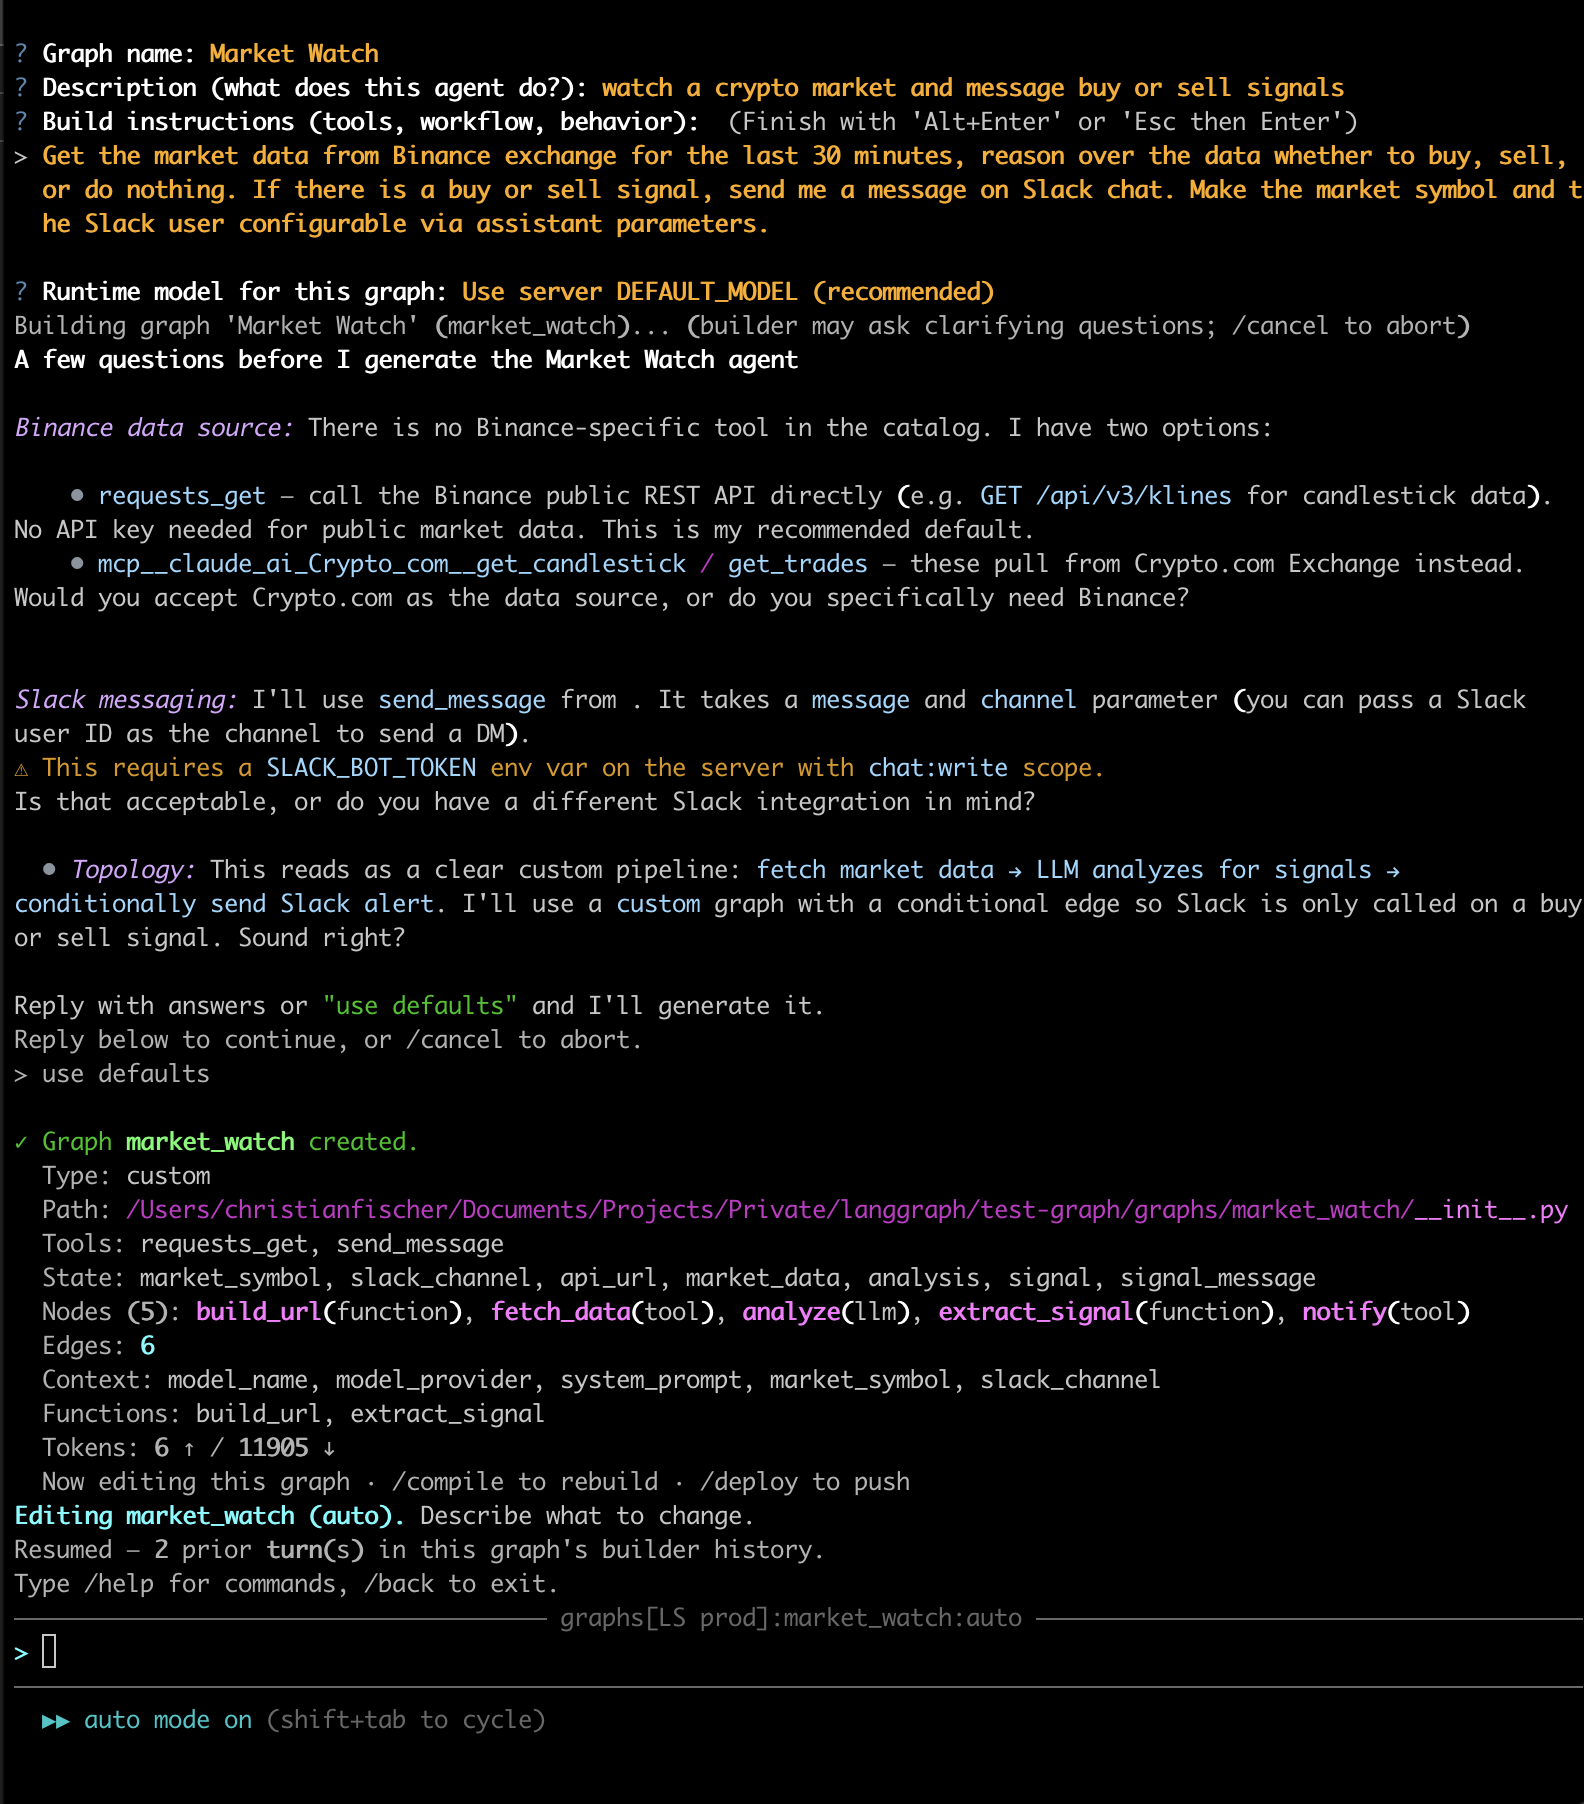
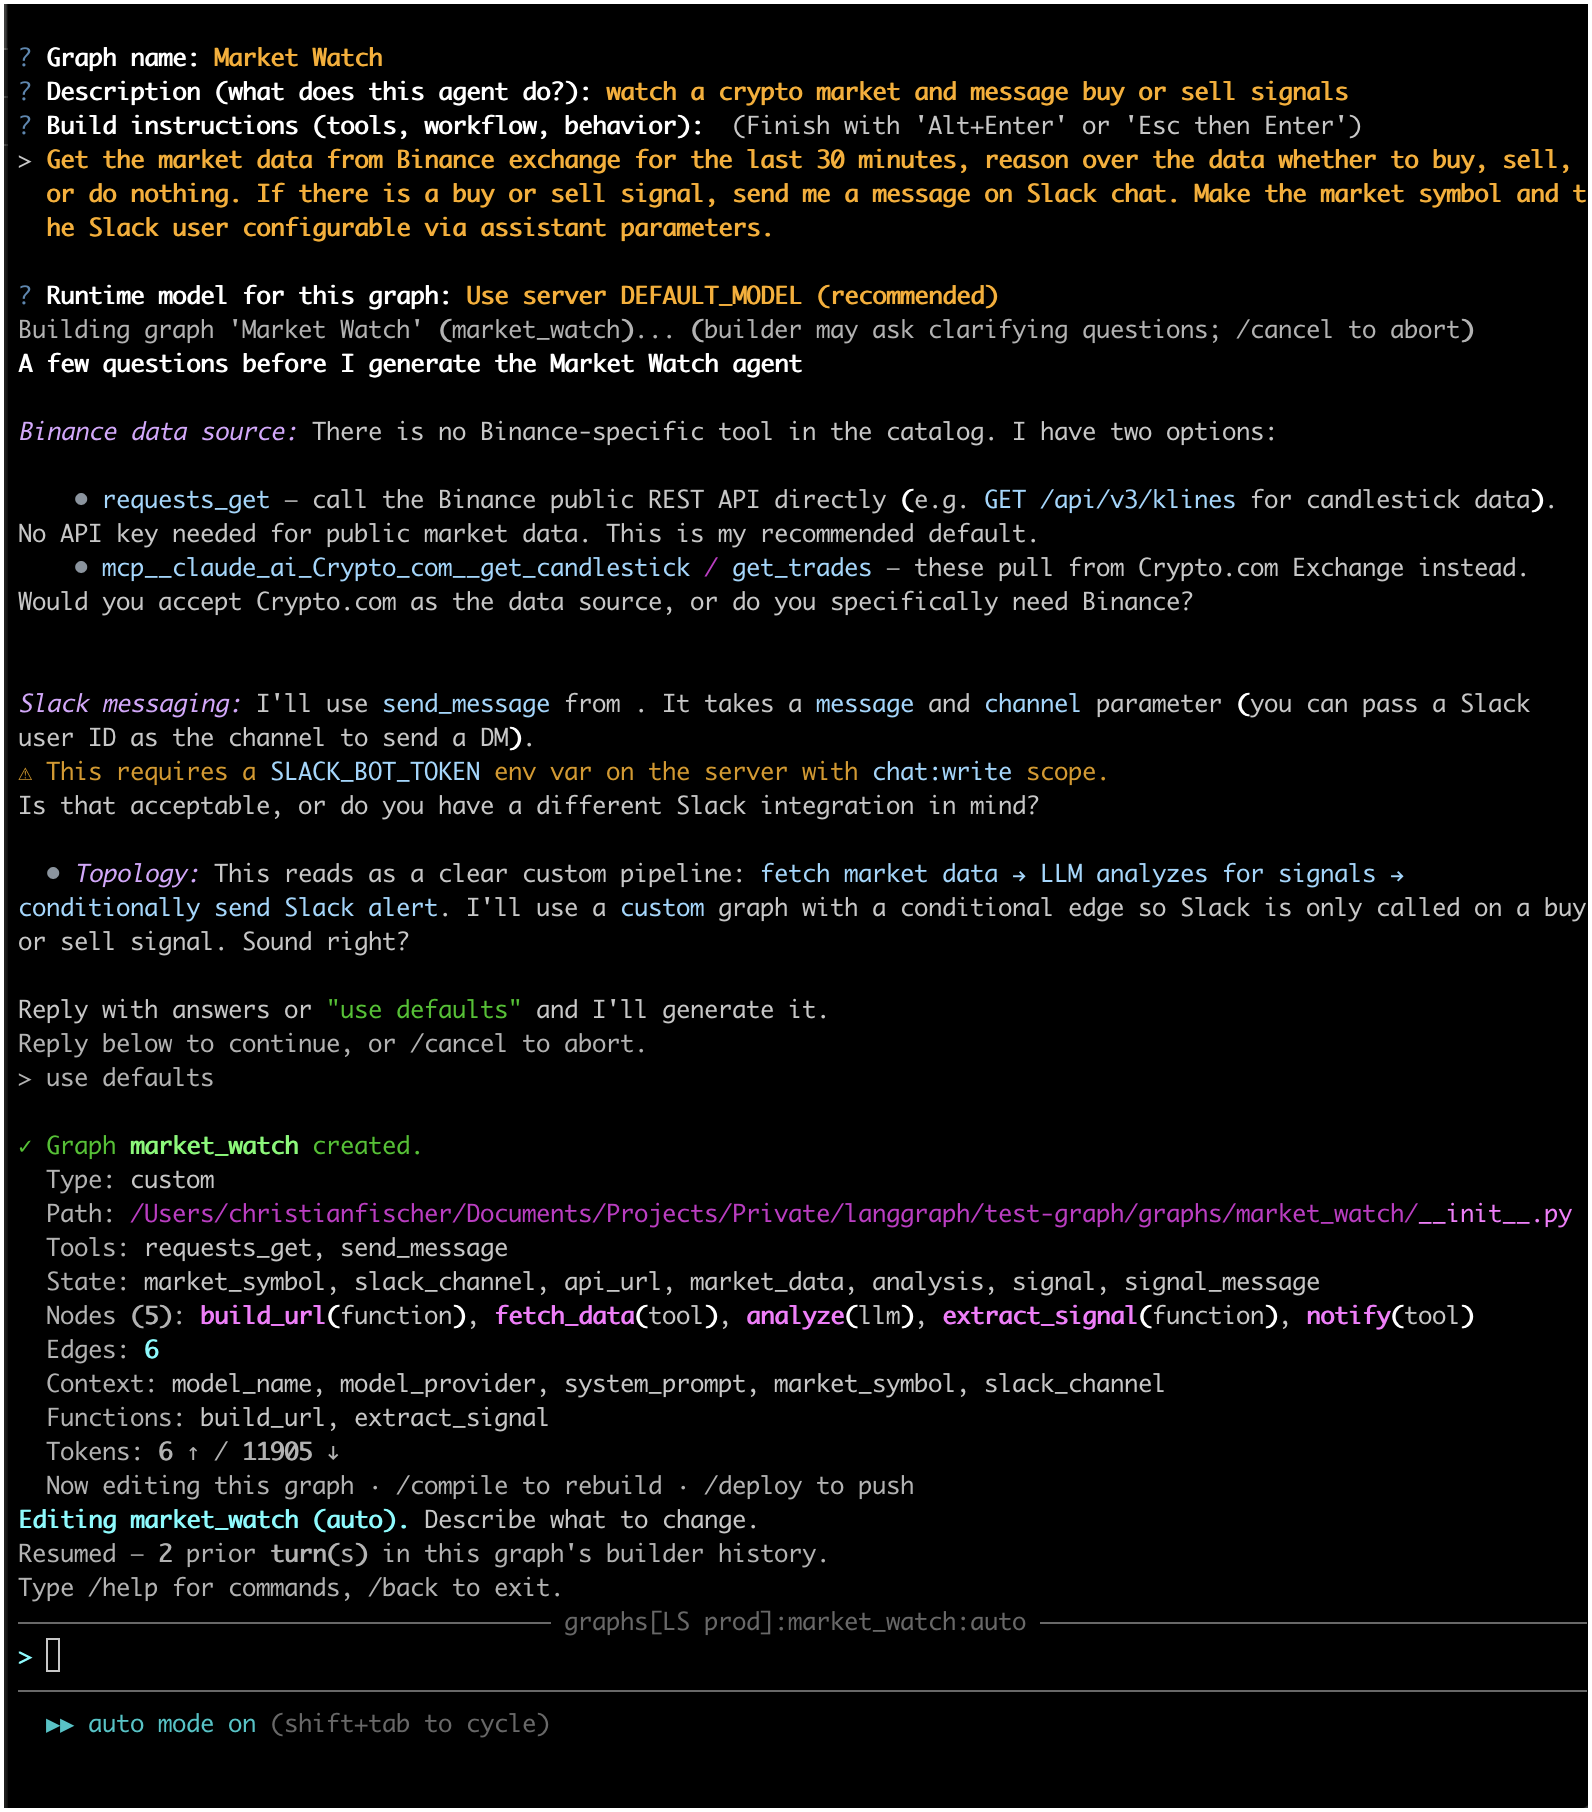
README screenshot: white border + HTML-sized embed
- Bake a 4px white frame into docs/assets/create_graph.png so the
  terminal window is visible on dark-mode GitHub (inline CSS isn't an
  option — GitHub Markdown strips style="").
- Switch the embed from Markdown ![...] to an <img> tag at width="560"
  so it renders ~75% of typical content width on GitHub.

diff --git a/README.md b/README.md
@@ -95,7 +95,7 @@ The end-to-end flow is one command per step:
 `/create` in action — answer a few prompts and the LLM produces a
 complete `definition.json` for you:
 
-![Creating a new graph with /create](https://langosh.ai/assets/create_graph.png)
+<img src="https://langosh.ai/assets/create_graph.png" alt="Creating a new graph with /create" width="560">
 
 For the deep dive — graph types, tool discovery, the compiler, the
 on-disk catalog flow — see [Under the hood](#under-the-hood).
